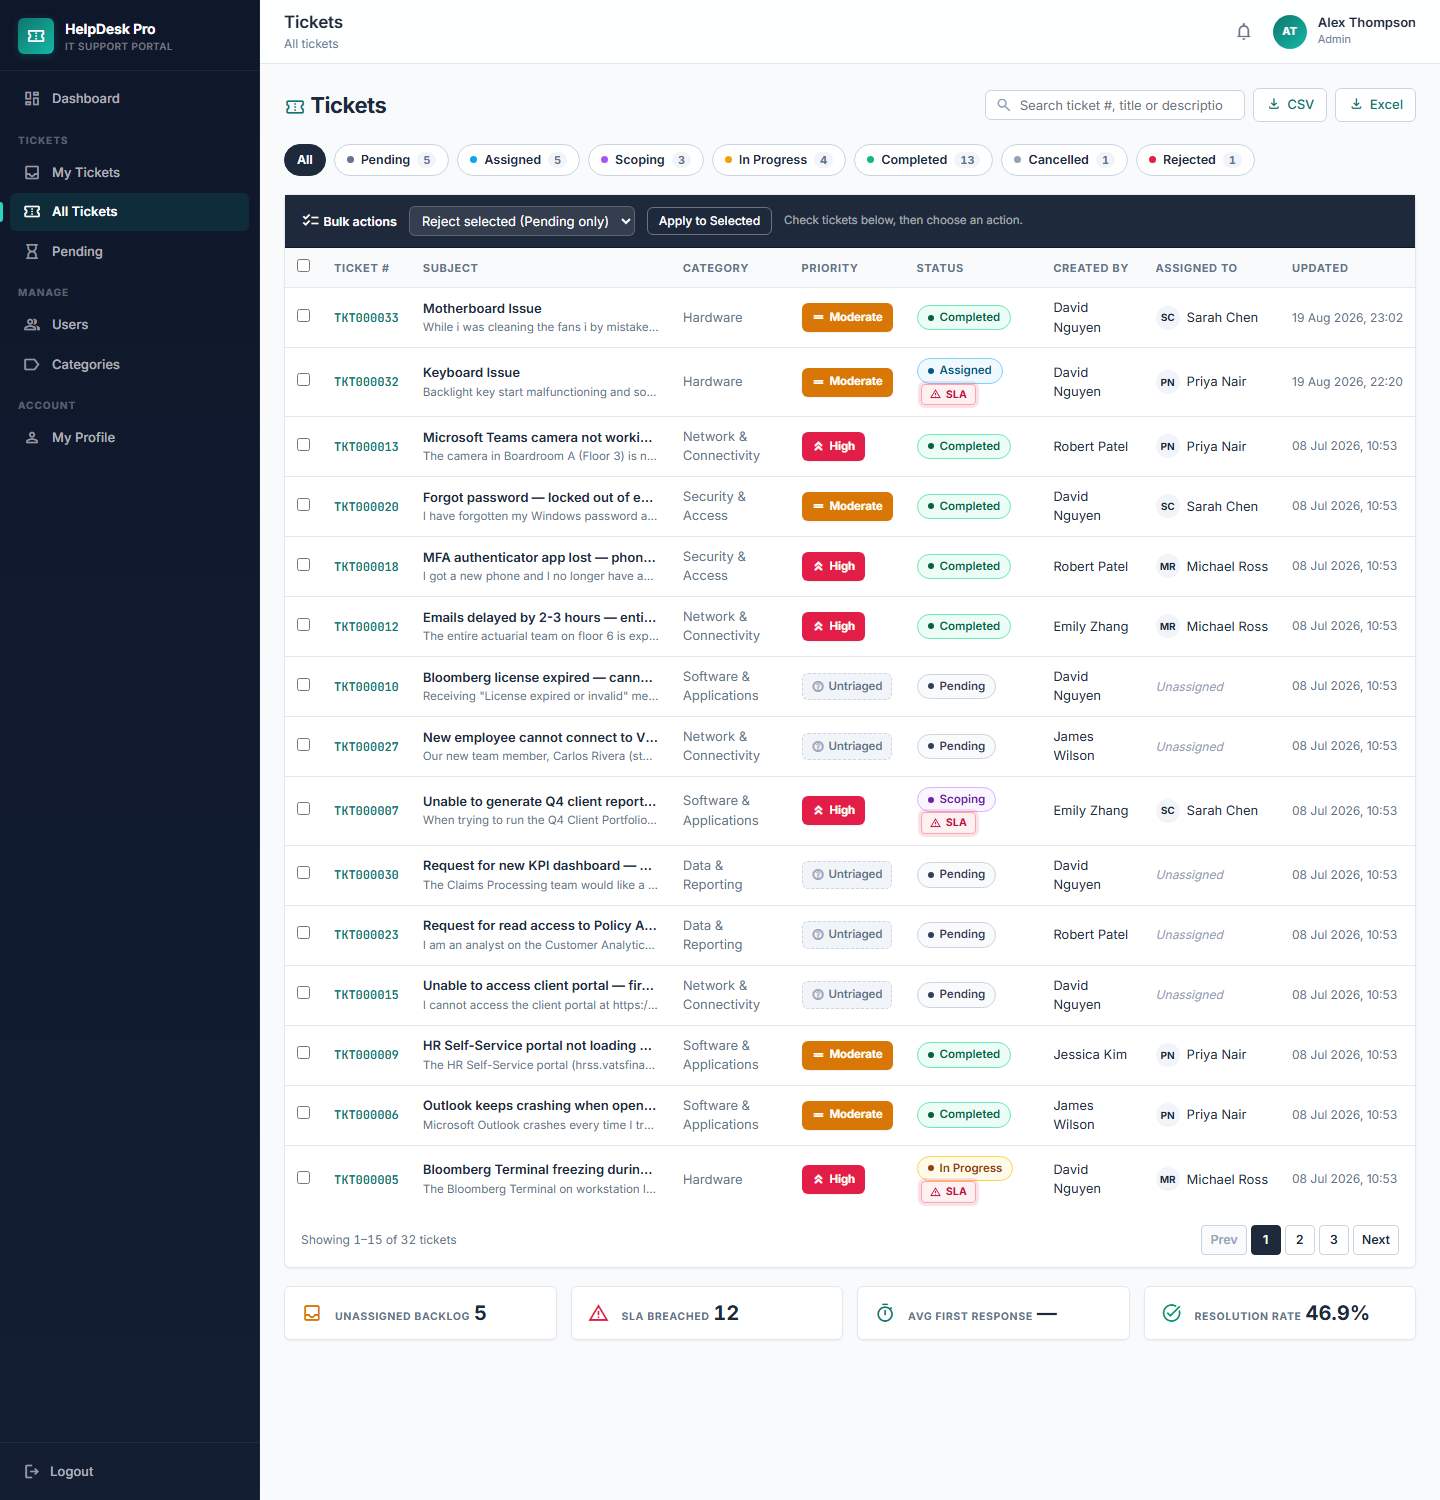
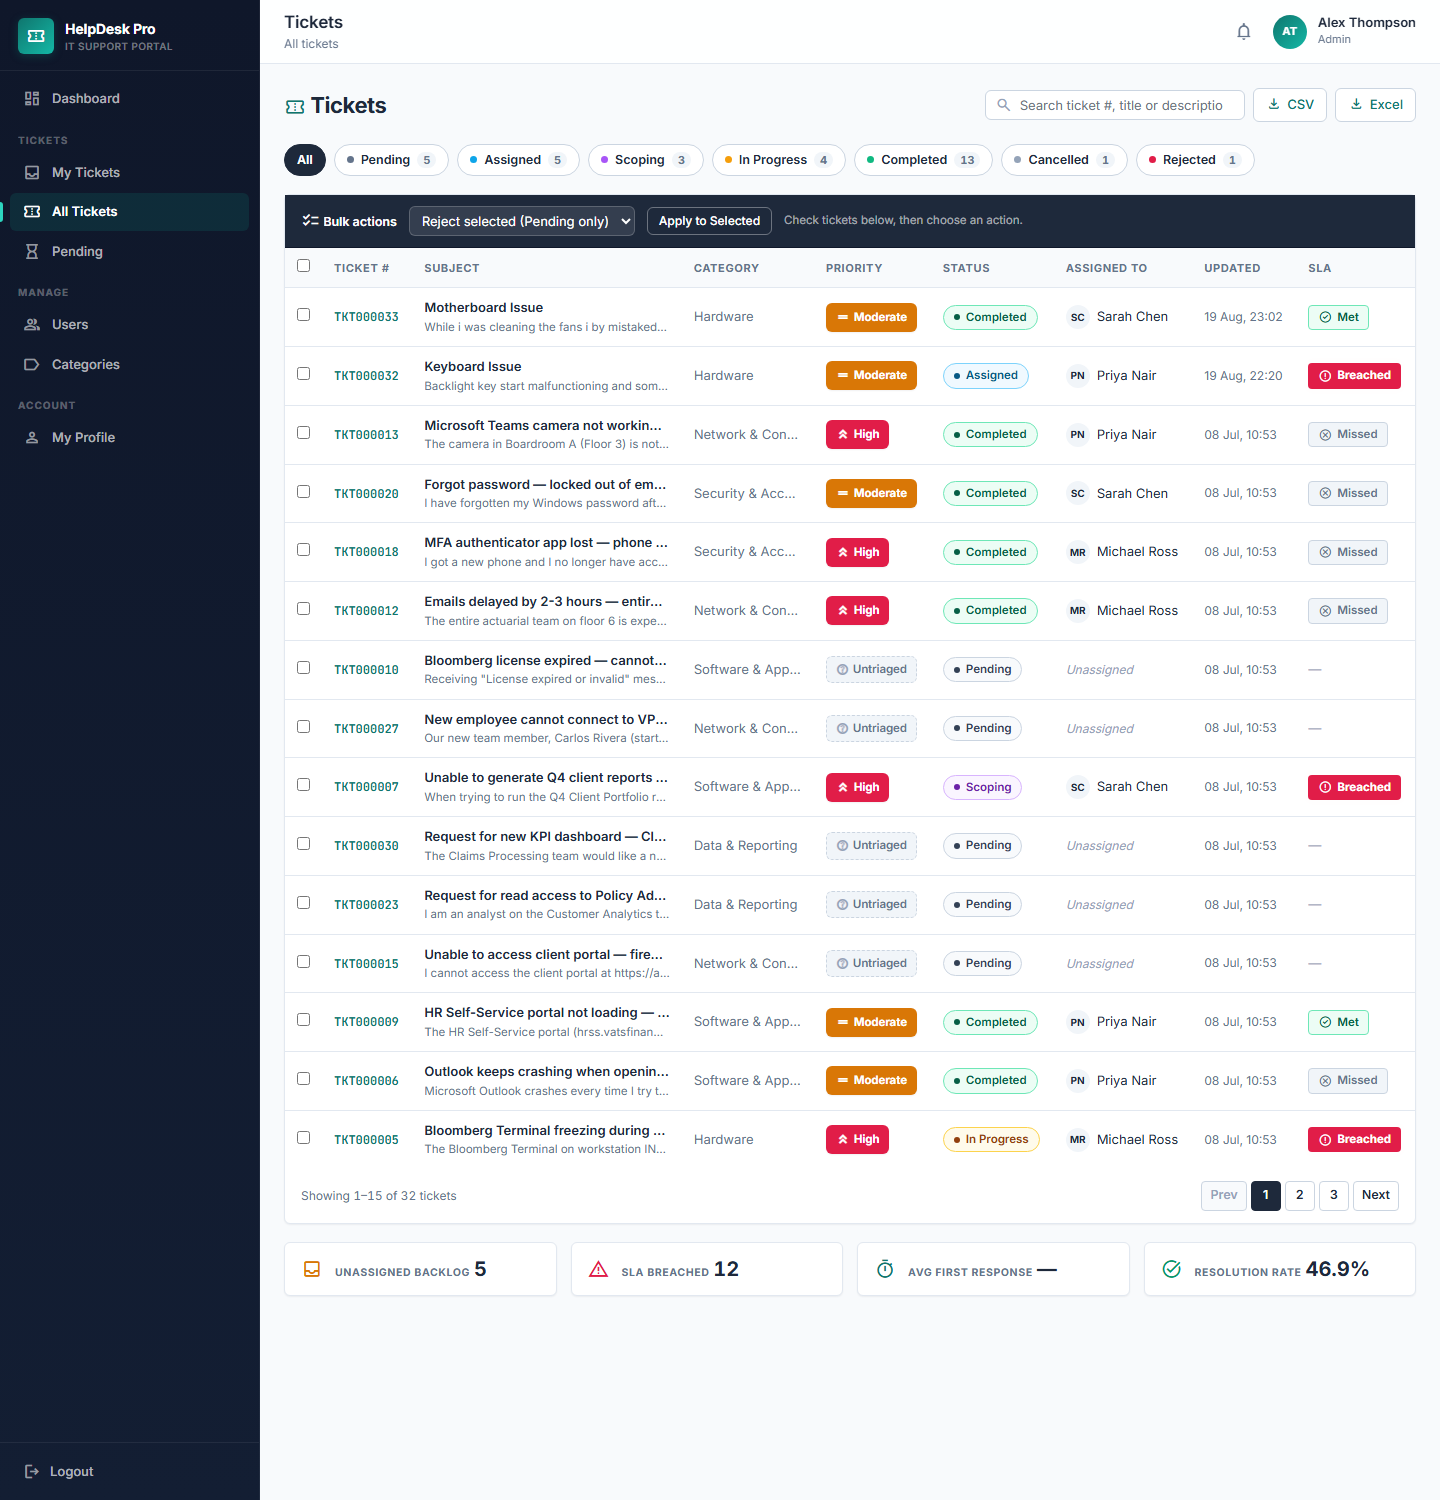
Give SLA its own column with a graded countdown state
The mockup had SLA as a dedicated column; the first port buried the badge
inside the Status cell, which made rows taller and meant SLA state could
not be scanned down a column.

Replaces the breached/not-breached binary with a graded state, which is
the "countdown that intensifies as it nears breach" the brief asked for
and the first pass skipped: breached (solid red, pulsing), critical
(under 4h), warning (under 24h), ok (quiet, deliberately not competing),
and met/missed as a verdict for closed tickets - a countdown is
meaningless on a ticket that is already done. Colour, icon and weight all
carry the urgency so it survives for a colour-blind reader.

Nine columns did not fit at 1440px and SLA kept clipping, so Created By
was dropped rather than shrinking everything: the mockup did not have it,
real ITSM list views do not show the requester in the default list, and
it remains on the ticket detail page.

diff --git a/static/css/main.css b/static/css/main.css
@@ -412,7 +412,15 @@ h2 > .ni { font-size: 22px; color: var(--accent); vertical-align: -5px; }
    carries enough context to triage without opening the ticket. */
 /* Capped so the row still fits nine columns at 1440px without the Updated
    column falling off the right edge. */
-.cell-subject { max-width: 260px; }
+.cell-subject { max-width: 265px; }
+
+/* Category on one line with an ellipsis — wrapping it cost two rows of
+   height and pushed the SLA column off the right edge. */
+.cell-category {
+  color: var(--text-muted);
+  max-width: 130px;
+  overflow: hidden; text-overflow: ellipsis; white-space: nowrap;
+}
 .cell-subject .subject-title {
   font-weight: 600; color: var(--text); font-size: 13px;
   display: block; overflow: hidden; text-overflow: ellipsis; white-space: nowrap;
@@ -774,6 +782,44 @@ a:focus-visible, button:focus-visible,
 /* A breach should draw the eye without being a flashing distraction:
    one slow, low-amplitude pulse rather than a blink. */
 .sla-badge { animation: hd-sla-pulse 2.6s var(--ease) infinite; }
+
+/* ── SLA column ───────────────────────────────────────────────────
+   Urgency is encoded three ways at once — colour, icon, and weight — so
+   the state survives for a colour-blind reader and stays scannable down
+   a column of fifteen rows. Only the two genuinely urgent states move. */
+.sla {
+  display: inline-flex; align-items: center; gap: 5px;
+  padding: 3px 9px;
+  border-radius: var(--radius-sm);
+  border: 1px solid transparent;
+  font-size: 11.5px; font-weight: 600;
+  white-space: nowrap;
+  font-variant-numeric: tabular-nums;
+}
+.sla .ni { font-size: 14px; }
+
+/* Past deadline — the loudest state, and the only one that is filled */
+.sla-breached {
+  background: #E11D48; color: #fff; font-weight: 700;
+  animation: hd-sla-pulse-strong 2.4s var(--ease) infinite;
+}
+/* Under 4 hours — urgent, but not yet a failure */
+.sla-critical {
+  background: #FFF1F2; color: #BE123C; border-color: #FDA4AF;
+  animation: hd-sla-pulse 3s var(--ease) infinite;
+}
+/* Same day */
+.sla-warning { background: #FFFBEB; color: #92400E; border-color: #FCD34D; }
+/* Comfortably ahead — deliberately quiet so it doesn't compete */
+.sla-ok      { background: transparent; color: var(--text-muted); border-color: var(--border); font-weight: 500; }
+/* Closed tickets get a verdict rather than a countdown */
+.sla-met     { background: #ECFDF5; color: #065F46; border-color: #6EE7B7; }
+.sla-missed  { background: #F1F5F9; color: #64748B; border-color: var(--border-strong); }
+
+@keyframes hd-sla-pulse-strong {
+  0%, 100% { box-shadow: 0 0 0 0 rgba(225, 29, 72, 0.45); }
+  60%      { box-shadow: 0 0 0 5px rgba(225, 29, 72, 0); }
+}
 
 @keyframes hd-sla-pulse {
   0%, 100% { box-shadow: 0 0 0 0 rgba(225, 29, 72, 0.0); }

diff --git a/templates/vats/ticket_list.html b/templates/vats/ticket_list.html
@@ -76,9 +76,9 @@
             <th>Category</th>
             <th>Priority</th>
             <th>Status</th>
-            {% if request.user.role != "Viewer" %}<th>Created By</th>{% endif %}
             <th>Assigned To</th>
             <th>Updated</th>
+            <th>SLA</th>
           </tr>
         </thead>
         <tbody>
@@ -96,7 +96,7 @@
               </a>
               <span class="subject-summary">{{ ticket.problem_descp|truncatechars:70 }}</span>
             </td>
-            <td style="color:var(--text-muted);">{{ ticket.category }}</td>
+            <td class="cell-category">{{ ticket.category }}</td>
             <td>
               {% if ticket.priority %}
               <span class="sbadge pbadge-{{ ticket.priority }}">{{ ticket.priority }}</span>
@@ -110,13 +110,7 @@
                 {{ ticket.status }}
               </span>
               {% else %}—{% endif %}
-              {% if ticket.is_sla_breached %}
-              <span class="sla-badge ml-1"><span class="ni" style="font-size:12px;">warning</span> SLA</span>
-              {% endif %}
             </td>
-            {% if request.user.role != "Viewer" %}
-            <td>{{ ticket.created_by.first_name|capfirst }} {{ ticket.created_by.last_name|capfirst }}</td>
-            {% endif %}
             <td>
               {% if ticket.assigned_to %}
                 <span class="assignee">
@@ -128,7 +122,24 @@
               {% endif %}
             </td>
             <td style="font-size:12px;color:var(--text-muted);white-space:nowrap;">
-              {{ ticket.get_updated_at|date:"d M Y, H:i" }}
+              {{ ticket.get_updated_at|date:"d M, H:i" }}
+            </td>
+            <td>
+              {% if ticket.sla_state %}
+              <span class="sla sla-{{ ticket.sla_state }}"
+                    title="SLA deadline: {{ ticket.due_by|date:'d M Y, H:i' }}">
+                <span class="ni">
+                  {% if ticket.sla_state == 'breached' %}error
+                  {% elif ticket.sla_state == 'critical' %}bolt
+                  {% elif ticket.sla_state == 'warning' %}schedule
+                  {% elif ticket.sla_state == 'met' %}check_circle
+                  {% elif ticket.sla_state == 'missed' %}cancel
+                  {% else %}schedule{% endif %}
+                </span>{{ ticket.sla_label }}
+              </span>
+              {% else %}
+              <span style="color:var(--text-subtle);">—</span>
+              {% endif %}
             </td>
           </tr>
           {% endfor %}

diff --git a/vats/models.py b/vats/models.py
@@ -214,6 +214,56 @@ class Ticket(models.Model):
         return round(delta.total_seconds() / 3600, 2)
 
     @property
+    def sla_state(self):
+        """
+        One of: 'breached', 'critical', 'warning', 'ok', 'met', 'missed', None.
+
+        Drives the SLA column. Open tickets get an urgency level that rises as
+        the deadline approaches; closed tickets get a verdict instead, because
+        "3h left" is meaningless on a ticket that is already done.
+        """
+        closed = self.status in ('Completed', 'Cancelled', 'Rejected')
+
+        if not self.due_by:
+            return None
+
+        if closed:
+            if not self.resolved_at:
+                return None
+            return 'met' if self.resolved_at <= self.due_by else 'missed'
+
+        if timezone.now() > self.due_by:
+            return 'breached'
+
+        hours_left = (self.due_by - timezone.now()).total_seconds() / 3600
+        if hours_left <= 4:
+            return 'critical'
+        if hours_left <= 24:
+            return 'warning'
+        return 'ok'
+
+    @property
+    def sla_label(self):
+        """Short human text for the SLA column."""
+        state = self.sla_state
+        if state is None:
+            return ''
+        if state == 'breached':
+            return 'Breached'
+        if state == 'met':
+            return 'Met'
+        if state == 'missed':
+            return 'Missed'
+
+        seconds = (self.due_by - timezone.now()).total_seconds()
+        hours = seconds / 3600
+        if hours < 1:
+            return f"{int(seconds // 60)}m left"
+        if hours < 48:
+            return f"{hours:.0f}h left"
+        return f"{hours / 24:.0f}d left"
+
+    @property
     def first_response_time_hours(self):
         """Hours from creation to first real Manager engagement. Support teams call this FRT."""
         if not self.first_response_at:

diff --git a/docs/UI_REDESIGN.md b/docs/UI_REDESIGN.md
@@ -158,3 +158,38 @@ and call `save()`.
 That is worth knowing generally: `.update()` is faster because it goes
 straight to SQL, but it skips `save()`, `auto_now`, and signals. If a model's
 `save()` carries business logic, bulk `.update()` will quietly bypass it.
+
+### The SLA column
+
+The mockup had SLA as its own column; the first port buried the badge inside
+the Status cell, which made rows taller and meant SLA state couldn't be
+scanned down a column.
+
+It is now a real column with a graded state rather than a breached/not-breached
+binary — the "countdown that intensifies as it nears breach" the brief asked
+for:
+
+| State | Meaning | Treatment |
+|---|---|---|
+| `breached` | Past deadline, still open | Solid red, pulsing — the only filled state |
+| `critical` | Under 4 hours left | Red tint, bordered, slow pulse |
+| `warning` | Under 24 hours left | Amber tint |
+| `ok` | Comfortably ahead | Quiet grey — deliberately doesn't compete |
+| `met` / `missed` | Closed: verdict against the deadline | Green / grey |
+
+Urgency is carried by colour, icon **and** weight together, so it survives for
+a colour-blind reader. Closed tickets get a verdict rather than a countdown,
+because "3h left" is meaningless on a ticket that is already done.
+
+**Column trade-off.** Nine columns did not fit at the 1440px reference width —
+the SLA column kept clipping. Rather than shrink everything, "Created By" was
+dropped: the mockup didn't have it, real ITSM list views (ServiceNow, Jira
+Service Management) don't show the requester in the default list either, and
+the requester is still on the ticket detail page. Nothing is lost, and the
+remaining columns get room to breathe.
+
+**Note on the current data.** Every open ticket in the demo database is already
+past its deadline, so `critical`, `warning` and `ok` don't appear yet — the
+states exist and work, they just need tickets whose deadlines are still in the
+future. Worth knowing before wondering why the countdown never shows: 12
+breached and 10 missed out of 32 tickets is the data, not a rendering bug.
